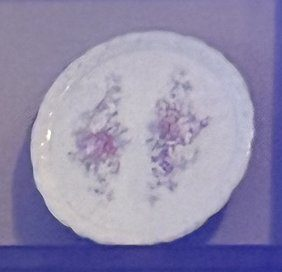
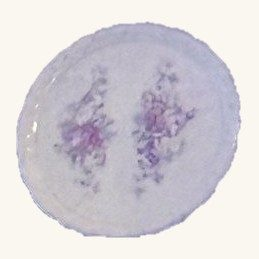
Clean photo backgrounds for 29 items
Backgrounds removed via Canva, refit to full-size photos, placed on cream.
SH-0017 (3-frame set) and SH-0027 (glass lamp) keep their original photos.
Adds build/clean_photo.py and build/clean_skip.txt for the nightly update.

Claude-Session: https://claude.ai/code/session_01XEmymcPSywWpWwdRTQr9Lp

diff --git a/build/clean_photo.py b/build/clean_photo.py
@@ -1,0 +1,24 @@
+import sys, cv2, numpy as np
+from PIL import Image, ImageOps
+orig_p, mask_p, out_p = sys.argv[1:4]
+im = ImageOps.exif_transpose(Image.open(orig_p)).convert("RGB")
+W,H = im.size
+a = np.array(Image.open(mask_p).convert("RGBA").split()[3].resize((W,H), Image.LANCZOS))
+img = cv2.cvtColor(np.array(im), cv2.COLOR_RGB2BGR)
+m = np.full((H,W), cv2.GC_PR_BGD, np.uint8)
+m[a>40] = cv2.GC_PR_FGD
+k = max(3, W//60)
+m[cv2.erode((a>200).astype(np.uint8), np.ones((k,k)))>0] = cv2.GC_FGD
+m[cv2.dilate((a>15).astype(np.uint8), np.ones((k,k)))==0] = cv2.GC_BGD
+bg,fg = np.zeros((1,65)),np.zeros((1,65))
+cv2.grabCut(img, m, None, bg, fg, 4, cv2.GC_INIT_WITH_MASK)
+alpha = np.where((m==1)|(m==3),255,0).astype(np.uint8)
+alpha = cv2.GaussianBlur(alpha,(3,3),0)
+# place on soft cream background, centered with margin
+rgba = np.dstack([np.array(im), alpha])
+ys,xs = np.where(alpha>20); x0,x1,y0,y1 = xs.min(),xs.max(),ys.min(),ys.max()
+crop = Image.fromarray(rgba[y0:y1+1,x0:x1+1])
+side = int(max(crop.size)*1.15)
+canvas = Image.new("RGB",(side,side),(250,247,240))
+canvas.paste(crop,((side-crop.width)//2,(side-crop.height)//2),crop)
+canvas.save(out_p, quality=90)
